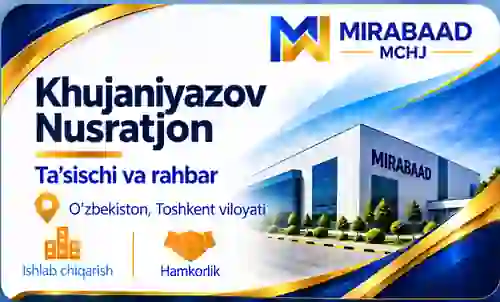
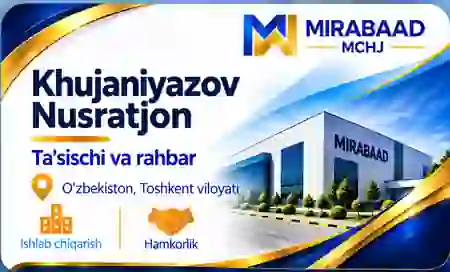
Add Uzbek Russian English language switcher

diff --git a/index.html b/index.html
@@ -4,36 +4,37 @@
 <meta charset="utf-8">
 <meta name="viewport" content="width=device-width,initial-scale=1,viewport-fit=cover">
 <meta name="theme-color" content="#073b78">
-<meta name="description" content="Mirabaad MCHJ Elektron vizitka">
+<meta name="description" content="MIRABAAD MCHJ — электронная визитка">
 <meta property="og:type" content="website">
-<meta property="og:title" content="Mirabaad MCHJ Elektron vizitka">
-<meta property="og:description" content="">
+<meta property="og:title" content="MIRABAAD MCHJ — Electronic Business Card">
 <meta property="og:url" content="https://erali0485-crypto.github.io/mirabaad-card/">
-<title>Mirabaad MCHJ Elektron vizitka</title>
+<title>MIRABAAD — Electronic Business Card</title>
 <style>
-:root{--blue:#073b78;--deep:#031d43;--gold:#e6a426;--gold2:#ffd36a}
+:root{--blue:#073b78;--deep:#031d43;--gold:#e6a426;--gold2:#ffd36a;--bg:#dcecf8}
 *{box-sizing:border-box}
-html,body{margin:0;padding:0;background:#dcecf8;font-family:Arial,Helvetica,sans-serif;color:var(--blue)}
+html,body{margin:0;padding:0;background:var(--bg);font-family:Arial,Helvetica,sans-serif;color:var(--blue)}
 body{min-width:320px}
 .page{width:min(100%,1120px);margin:auto;background:#fff;box-shadow:0 18px 70px #062f6826;overflow:hidden}
-.hero{position:relative;width:100%;height:auto;min-height:0;padding:0!important;margin:0!important;background:#fff!important;overflow:hidden;aspect-ratio:1536/920}
-.hero-card{display:block;width:100%;height:100%;object-fit:cover;object-position:center}
-
-.brand{display:none;position:absolute;right:34px;top:24px;z-index:8;width:270px;height:82px;display:flex;align-items:center;justify-content:center;background:#fff;border-radius:0 0 0 18px}
-.brand img{display:block;width:250px;height:74px;object-fit:contain;object-position:center}
-.identity{display:none}
-.name{margin:0;font-size:66px;line-height:.93;letter-spacing:-3px;color:var(--blue);font-weight:800}
-.name-line{width:150px;height:7px;margin-top:18px;background:var(--gold);border-radius:9px}
-.role{margin-top:17px;font-size:29px;font-weight:800}
-.location{display:flex;align-items:center;gap:15px;margin-top:29px;font-size:22px;font-weight:700;white-space:nowrap}
-.pin{width:45px;height:54px;flex:0 0 45px;display:block}
-.services{display:flex;gap:54px;margin-top:42px;position:relative;z-index:6}
-.service{display:flex;align-items:center;gap:11px;font-size:20px;font-weight:800}
-.service-icon{width:48px;height:48px;display:grid;place-items:center;color:var(--gold)}
-.service-icon svg{width:44px;height:44px}
-.building{position:absolute;z-index:4;right:38px;top:150px;width:49%;height:365px;border:2px solid var(--gold);border-radius:28px;overflow:hidden;background:#dcecf8;box-shadow:0 18px 42px #0a376b2d}
-.building img{width:100%;height:100%;display:block;object-fit:contain;object-position:center;background:#fff}
-.contact{position:relative;margin:0!important;background:linear-gradient(145deg,#083a75,#021d42);padding:38px 38px 34px}
+.langbar{position:fixed;right:18px;top:14px;z-index:100;display:flex;gap:5px;padding:5px;background:#031d43dd;border:1px solid #e6a426;border-radius:13px;box-shadow:0 8px 22px #0004;backdrop-filter:blur(8px)}
+.lang{border:0;background:transparent;color:#fff;font-weight:800;font-size:13px;padding:8px 10px;border-radius:9px;cursor:pointer}
+.lang:hover{background:#ffffff20}.lang.active{background:var(--gold);color:#031d43}
+.hero{position:relative;aspect-ratio:1536/920;overflow:hidden;background:#fff}
+.hero-bg{position:absolute;inset:0;width:100%;height:100%;object-fit:cover}
+.hero-content{position:absolute;inset:0}
+.hero-logo{position:absolute;right:5.5%;top:5%;width:24%;height:auto;object-fit:contain}
+.identity{position:absolute;left:7%;top:24%;width:55%;color:var(--blue)}
+.name{margin:0;font-size:clamp(35px,5.7vw,67px);line-height:.93;letter-spacing:-3px;font-weight:800}
+.name-line{width:150px;max-width:28%;height:7px;margin-top:18px;background:var(--gold);border-radius:9px}
+.role{margin-top:17px;font-size:clamp(18px,2.45vw,29px);font-weight:800}
+.location{display:flex;align-items:center;gap:12px;margin-top:24px;font-size:clamp(15px,1.85vw,22px);font-weight:700}
+.pin{width:42px;height:50px;flex:0 0 42px}
+.services{display:flex;gap:54px;margin-top:35px}
+.service{display:flex;align-items:center;gap:10px;font-size:clamp(14px,1.7vw,20px);font-weight:800}
+.service-icon{width:45px;height:45px;display:grid;place-items:center;color:var(--gold)}
+.service-icon svg{width:42px;height:42px}
+.building{position:absolute;z-index:2;right:3.5%;top:21%;width:49%;height:48%;border:2px solid var(--gold);border-radius:28px;overflow:hidden;background:#fff0;box-shadow:0 18px 42px #0a376b2d}
+.building img{width:100%;height:100%;display:block;object-fit:cover}
+.contact{position:relative;background:linear-gradient(145deg,#083a75,#021d42);padding:38px 38px 34px}
 .contact:before{content:"";position:absolute;inset:16px;border:1px solid #e7a526;border-radius:30px;pointer-events:none}
 .heading{position:relative;z-index:2;margin:0 0 2px 42px;color:var(--gold2);font-size:36px;font-weight:800}
 .subheading{position:relative;z-index:2;margin:0 0 24px 42px;color:#fff;font-size:19px}
@@ -46,50 +47,76 @@ body{min-width:320px}
 .action{min-height:104px;border-radius:21px;padding:13px 16px;display:flex;align-items:center;gap:14px;text-decoration:none;border:1px solid #ffffff55;box-shadow:0 8px 22px #0004}
 .icon{width:58px;height:58px;min-width:58px;border-radius:18px;display:grid;place-items:center;background:#fff;box-shadow:0 5px 14px #0002}
 .icon svg{width:34px;height:34px;display:block}
-.action strong{display:block;font-size:20px}
-.action span{display:block;font-size:14px;margin-top:5px;line-height:1.25}
-.phone{background:linear-gradient(135deg,#087cf5,#0755c5);color:#fff}
-.email{background:#fff;color:#073873}
-.telegram{background:#e8f7ff;color:#087bb8}
-.instagram{background:linear-gradient(135deg,#fff0f6,#f1ddff);color:#8b2fa8}
-.maps{background:#effff3;color:#176b3b}
+.action strong{display:block;font-size:20px}.action span{display:block;font-size:14px;margin-top:5px;line-height:1.25}
+.phone{background:linear-gradient(135deg,#087cf5,#0755c5);color:#fff}.email{background:#fff;color:#073873}.telegram{background:#e8f7ff;color:#087bb8}.instagram{background:linear-gradient(135deg,#fff0f6,#f1ddff);color:#8b2fa8}.maps{background:#effff3;color:#176b3b}
 @media(max-width:900px){
-.hero{height:auto;min-height:0;padding:0!important;aspect-ratio:1536/920}
-.brand{right:20px;top:18px;width:220px;height:68px}.brand img{width:205px;height:62px}
-.identity{width:52%;padding-top:100px}.name{font-size:54px}.role{font-size:23px}.location{font-size:18px}.services{gap:28px}.service{font-size:17px}
-.building{right:25px;top:190px;width:47%;height:300px}
-.contact{padding:32px 20px}.contact-grid{grid-template-columns:1fr}.qr-frame{width:min(76vw,300px);height:min(76vw,300px)}
+.langbar{right:10px;top:10px}.hero{aspect-ratio:1536/920}.identity{left:6%;top:24%;width:55%}.building{right:3%;top:23%;width:48%;height:45%}.services{gap:25px}.service{gap:7px}.service-icon,.service-icon svg{width:36px;height:36px}.contact{padding:32px 20px}.contact-grid{grid-template-columns:1fr}.qr-frame{width:min(76vw,300px);height:min(76vw,300px)}
 }
 @media(max-width:650px){
-.hero{height:auto;min-height:0;padding:0!important;aspect-ratio:1536/920}.brand{position:relative;right:auto;top:auto;margin-left:auto;width:155px;height:54px;border-radius:0 0 0 14px}.brand img{width:145px;height:50px}
-.identity{width:100%;padding-top:34px}.name{font-size:41px;letter-spacing:-2px}.name-line{width:100px;height:5px;margin-top:14px}.role{font-size:19px;margin-top:13px}.location{font-size:14px;gap:9px;margin-top:19px;white-space:normal}.pin{width:32px;height:40px;flex-basis:32px}
-.services{gap:25px;margin-top:25px}.service{font-size:14px;gap:7px}.service-icon,.service-icon svg{width:34px;height:34px}
-.building{position:relative;right:auto;top:auto;width:100%;height:230px;margin-top:26px;border-radius:22px}
-.contact{padding:27px 12px 22px}.contact:before{inset:10px;border-radius:22px}.heading{font-size:25px;margin-left:18px}.subheading{font-size:14px;margin-left:18px;margin-bottom:20px}
-.contact-grid{gap:17px}.qr-card{padding:19px 11px;border-radius:20px}.qr-frame{width:min(78vw,300px);height:min(78vw,300px);padding:10px;box-shadow:0 0 0 5px #e7a526;border-radius:17px}.qr-note{font-size:12px;margin-top:14px}
-.actions{grid-template-columns:1fr;gap:10px}.action{min-height:74px;border-radius:17px;padding:9px 12px}.icon{width:48px;height:48px;min-width:48px}.icon svg{width:29px;height:29px}.action strong{font-size:16px}.action span{font-size:11px}
-.bottom-strip{grid-template-columns:1fr;gap:10px;min-height:0;padding:15px}.bottom-divider{width:80%;height:1px;margin:auto}.bottom-item{justify-content:flex-start}.bottom-item strong{font-size:16px}.bottom-item span{font-size:13px}
+.langbar{position:absolute;top:9px;right:9px}.lang{font-size:12px;padding:7px 8px}.hero{aspect-ratio:1536/920}.hero-logo{right:4%;top:4%;width:30%}.identity{left:6%;top:25%;width:62%}.name{font-size:clamp(30px,8.2vw,42px);letter-spacing:-2px}.name-line{width:100px;height:5px;margin-top:13px}.role{font-size:clamp(15px,4.2vw,20px);margin-top:12px}.location{font-size:clamp(12px,3.3vw,15px);gap:7px;margin-top:15px}.pin{width:28px;height:35px;flex-basis:28px}.services{gap:17px;margin-top:20px}.service{font-size:clamp(11px,3vw,14px);gap:5px}.service-icon,.service-icon svg{width:29px;height:29px}.building{right:3%;top:49%;width:94%;height:43%;border-radius:20px}.contact{padding:27px 12px 22px}.contact:before{inset:10px;border-radius:22px}.heading{font-size:25px;margin-left:18px}.subheading{font-size:14px;margin-left:18px;margin-bottom:20px}.contact-grid{gap:17px}.qr-card{padding:19px 11px;border-radius:20px}.qr-frame{width:min(78vw,300px);height:min(78vw,300px);padding:10px;box-shadow:0 0 0 5px #e7a526;border-radius:17px}.qr-note{font-size:12px;margin-top:14px}.actions{grid-template-columns:1fr;gap:10px}.action{min-height:74px;border-radius:17px;padding:9px 12px}.icon{width:48px;height:48px;min-width:48px}.icon svg{width:29px;height:29px}.action strong{font-size:16px}.action span{font-size:11px}
 }
 </style>
 </head>
 <body>
+<div class="langbar" aria-label="Language selector">
+<button class="lang active" data-lang="uz">O‘Z</button>
+<button class="lang" data-lang="ru">RU</button>
+<button class="lang" data-lang="en">EN</button>
+</div>
 <main class="page">
-<section class="hero" aria-label="MIRABAAD yuqori qism"><img class="hero-card" src="mirabaad-top.webp" alt="MIRABAAD MCHJ"></section>
-
+<section class="hero" aria-label="MIRABAAD">
+<img class="hero-bg" src="mirabaad-top-blank.svg" alt="">
+<div class="hero-content">
+<img class="hero-logo" src="logo.jpg" alt="MIRABAAD">
+<div class="identity">
+<h1 class="name" data-i18n="name">Khujaniyazov<br>Nusratjon</h1>
+<div class="name-line"></div>
+<div class="role" data-i18n="role">Ta’sischi va rahbar</div>
+<div class="location"><span class="pin">📍</span><span data-i18n="location">O‘zbekiston, Toshkent viloyati</span></div>
+<div class="services">
+<div class="service"><span class="service-icon">🏢</span><span data-i18n="production">Ishlab chiqarish</span></div>
+<div class="service"><span class="service-icon">🤝</span><span data-i18n="partnership">Hamkorlik</span></div>
+</div>
+</div>
+<div class="building"><img src="building.jpg" alt="MIRABAAD"></div>
+</div>
+</section>
 <section class="contact">
-<h2 class="heading">BIZ BILAN ALOQA</h2>
-<p class="subheading">QR kodni skaner qiling</p>
+<h2 class="heading" data-i18n="contact">BIZ BILAN ALOQA</h2>
+<p class="subheading" data-i18n="scan">QR kodni skaner qiling</p>
 <div class="contact-grid">
-<div class="qr-card"><div class="qr-frame"><img src="qr.png" alt="MIRABAAD elektron vizitka QR kodi"></div><div class="qr-note">QR-kod shu elektron vizitkani ochadi</div></div>
+<div class="qr-card">
+<div class="qr-frame"><img src="qr.png" alt="MIRABAAD QR"></div>
+<div class="qr-note" data-i18n="qrnote">QR-kod shu elektron vizitkani ochadi</div>
+</div>
 <div class="actions">
-<a class="action phone" href="tel:+998909060099"><div class="icon"><svg viewBox="0 0 24 24" fill="none" stroke="#0755c5" stroke-width="2.4"><path d="M22 16.9v3a2 2 0 0 1-2.2 2 19.7 19.7 0 0 1-8.6-3.1 19.4 19.4 0 0 1-6-6A19.7 19.7 0 0 1 2.1 4.2 2 2 0 0 1 4.1 2h3a2 2 0 0 1 2 1.7c.1 1 .4 2 .7 2.9a2 2 0 0 1-.5 2.1L8 10a16 16 0 0 0 6 6l1.3-1.3a2 2 0 0 1 2.1-.5c.9.3 1.9.6 2.9.7a2 2 0 0 1 1.7 2Z"/></svg></div><div><strong>Qo‘ng‘iroq</strong><span>+998 90 906 00 99</span></div></a>
-<a class="action email" href="mailto:khujaniyovnusrat@gmail.com"><div class="icon"><svg viewBox="0 0 32 24"><path fill="#EA4335" d="M2 3h28v18H2z"/><path fill="#fff" d="m4 5 12 9L28 5v4l-12 9L4 9z"/><path fill="#4285F4" d="M2 3h5v18H2z"/><path fill="#34A853" d="M25 3h5v18h-5z"/></svg></div><div><strong>Email</strong><span>khujaniyovnusrat@gmail.com</span></div></a>
-<a class="action telegram" href="https://t.me/Nusratkhujaniyazov" target="_blank" rel="noopener"><div class="icon"><svg viewBox="0 0 24 24"><circle cx="12" cy="12" r="11" fill="#229ED9"/><path fill="#fff" d="m5.1 11.7 12.4-4.8c.6-.2 1.1.2.9.9l-2.1 9.7c-.2.8-.7 1-1.4.6l-3.8-2.8-1.8 1.7c-.2.2-.4.3-.7.2l.3-3.9 7.1-6.4c.3-.3-.1-.4-.5-.1l-8.8 5.5-3.8-1.2c-.8-.3-.8-.8.2-1.2Z"/></svg></div><div><strong>Telegram</strong><span>@Nusratkhujaniyazov</span></div></a>
-<a class="action instagram" href="https://www.instagram.com/khujaniyazov_nusrat?stkn=MXE3bjBxZ3N4MjNoZg%3D%3D&amp;utm_source=qr" target="_blank" rel="noopener"><div class="icon"><svg viewBox="0 0 24 24"><defs><linearGradient id="ig" x1="0" y1="1" x2="1" y2="0"><stop stop-color="#FEDA75"/><stop offset=".45" stop-color="#D62976"/><stop offset="1" stop-color="#4F5BD5"/></linearGradient></defs><rect x="3" y="3" width="18" height="18" rx="5" fill="url(#ig)"/><circle cx="12" cy="12" r="4.2" fill="none" stroke="#fff" stroke-width="2"/><circle cx="17.3" cy="6.8" r="1.1" fill="#fff"/></svg></div><div><strong>Instagram</strong><span>@khujaniyazov_nusrat</span></div></a>
-<a class="action maps" href="https://www.google.com/maps/search/?api=1&amp;query=41.1494318414385,69.07170106449206" target="_blank" rel="noopener"><div class="icon"><svg viewBox="0 0 24 28"><path fill="#4285F4" d="M12 1C6.5 1 2 5.3 2 10.7 2 18.1 12 27 12 27s10-8.9 10-16.3C22 5.3 17.5 1 12 1Z"/><circle cx="12" cy="10.5" r="5.2" fill="#fff"/><circle cx="12" cy="10.5" r="2.6" fill="#EA4335"/></svg></div><div><strong>Google Maps</strong><span>Manzilni ochish</span></div></a>
+<a class="action phone" href="tel:+998909060099"><div class="icon">☎</div><div><strong data-i18n="call">Qo‘ng‘iroq</strong><span>+998 90 906 00 99</span></div></a>
+<a class="action email" href="mailto:khujaniyovnusrat@gmail.com"><div class="icon">✉</div><div><strong data-i18n="email">Elektron pochta</strong><span>khujaniyovnusrat@gmail.com</span></div></a>
+<a class="action telegram" href="https://t.me/Nusratkhujaniyazov" target="_blank" rel="noopener"><div class="icon">➤</div><div><strong data-i18n="telegram">Telegram</strong><span>@Nusratkhujaniyazov</span></div></a>
+<a class="action instagram" href="https://www.instagram.com/khujaniyazov_nusrat?stkn=MXE3bjBxZ3N4MjNoZg%3D%3D&amp;utm_source=qr" target="_blank" rel="noopener"><div class="icon">◎</div><div><strong data-i18n="instagram">Instagram</strong><span>@khujaniyazov_nusrat</span></div></a>
+<a class="action maps" href="https://www.google.com/maps/search/?api=1&amp;query=41.1494318414385,69.07170106449206" target="_blank" rel="noopener"><div class="icon">⌖</div><div><strong data-i18n="maps">Google Maps</strong><span data-i18n="openmap">Manzilni ochish</span></div></a>
 </div>
 </div>
 </section>
 </main>
+<script>
+const T={
+uz:{name:"Khujaniyazov<br>Nusratjon",role:"Ta’sischi va rahbar",location:"O‘zbekiston, Toshkent viloyati",production:"Ishlab chiqarish",partnership:"Hamkorlik",contact:"BIZ BILAN ALOQA",scan:"QR kodni skaner qiling",qrnote:"QR-kod shu elektron vizitkani ochadi",call:"Qo‘ng‘iroq",email:"Elektron pochta",telegram:"Telegram",instagram:"Instagram",maps:"Google Maps",openmap:"Manzilni ochish"},
+ru:{name:"Худжаниязов<br>Нусратжон",role:"Учредитель и руководитель",location:"Узбекистан, Ташкентская область",production:"Производство",partnership:"Сотрудничество",contact:"СВЯЖИТЕСЬ С НАМИ",scan:"Отсканируйте QR-код",qrnote:"QR-код открывает эту электронную визитку",call:"Телефон",email:"Электронная почта",telegram:"Telegram",instagram:"Instagram",maps:"Google Maps",openmap:"Открыть адрес"},
+en:{name:"Khujaniyazov<br>Nusratjon",role:"Founder & CEO",location:"Uzbekistan, Tashkent Region",production:"Manufacturing",partnership:"Partnership",contact:"CONNECT WITH US",scan:"Scan the QR code",qrnote:"The QR code opens this electronic business card",call:"Phone",email:"Email",telegram:"Telegram",instagram:"Instagram",maps:"Google Maps",openmap:"Open Location"}
+};
+function setLang(lang){
+ const d=T[lang]||T.uz;
+ document.documentElement.lang=lang;
+ document.querySelectorAll("[data-i18n]").forEach(el=>{const k=el.dataset.i18n;if(d[k]!==undefined)el.innerHTML=d[k]});
+ document.querySelectorAll(".lang").forEach(b=>b.classList.toggle("active",b.dataset.lang===lang));
+ try{localStorage.setItem("mirabaad_lang",lang)}catch(e){}
+ const u=new URL(location.href);u.searchParams.set("lang",lang);history.replaceState(null,"",u);
+}
+document.querySelectorAll(".lang").forEach(b=>b.addEventListener("click",()=>setLang(b.dataset.lang)));
+const qp=new URLSearchParams(location.search).get("lang");
+let initial=qp||(()=>{try{return localStorage.getItem("mirabaad_lang")}catch(e){return null}})()||"uz";
+setLang(initial);
+</script>
 </body>
 </html>
